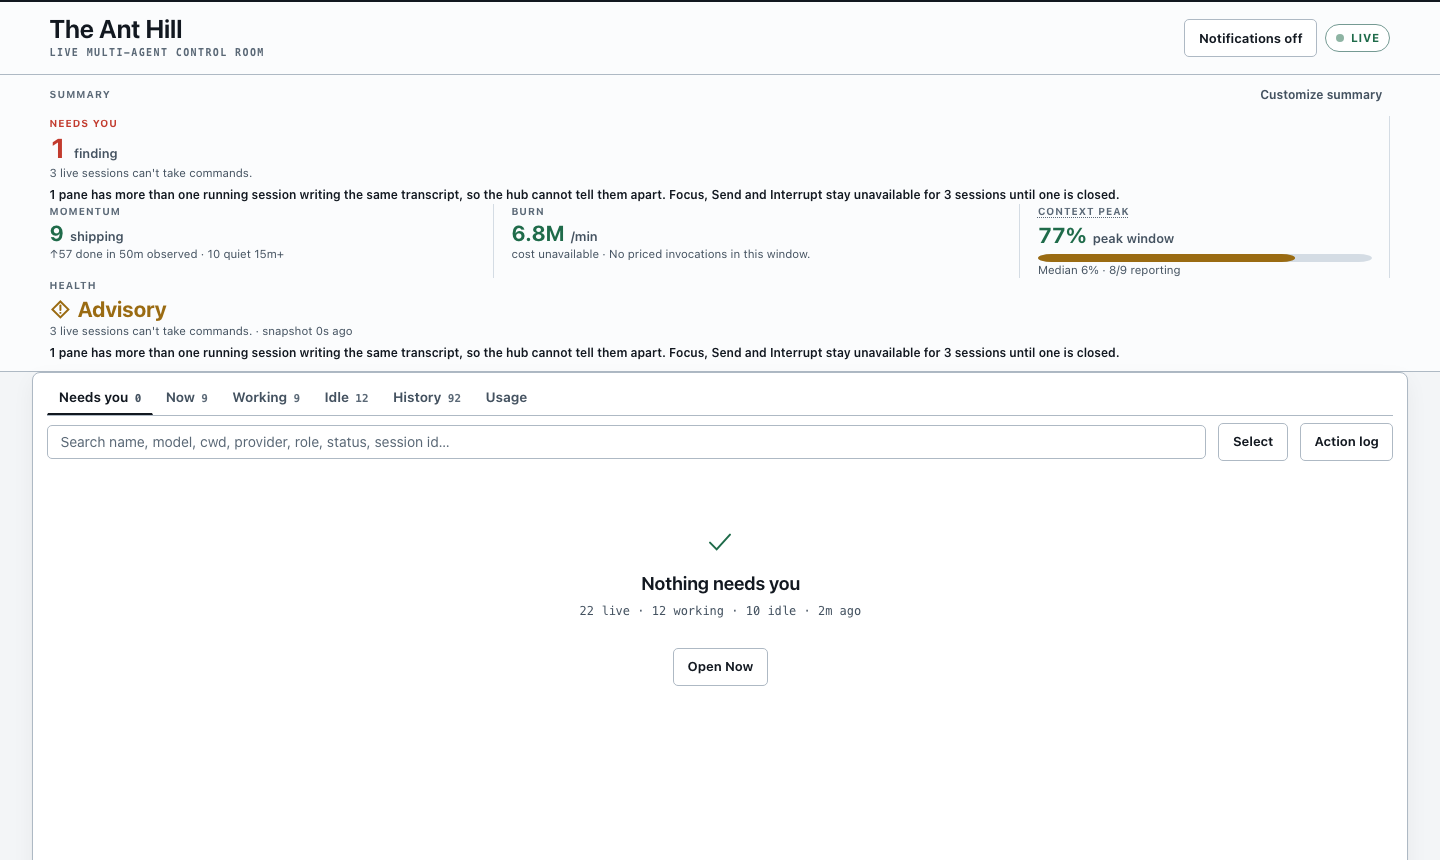
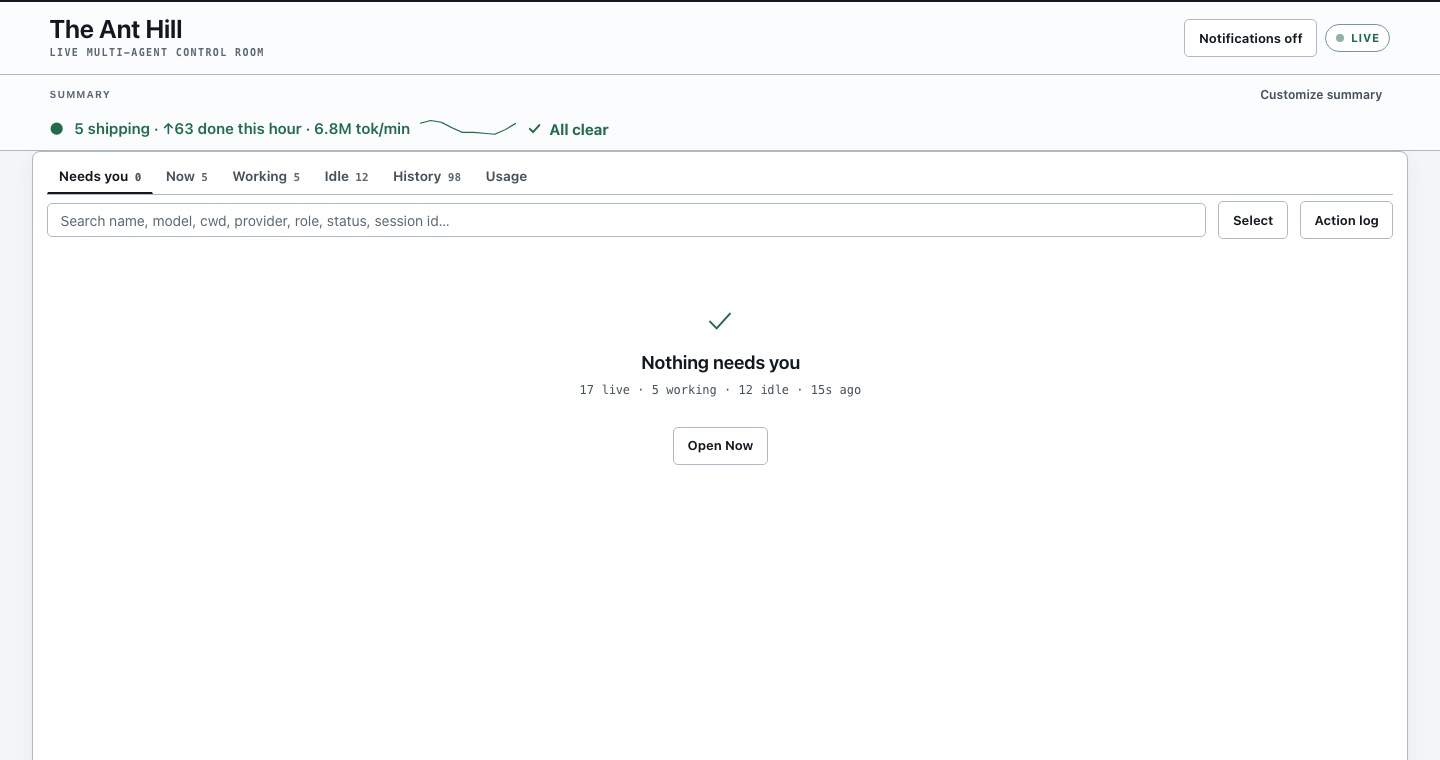
docs(guide): capture the calm band the board would not hold still for
The previous commit shipped the hero and summary shots showing a board with a
finding on it, because a shared checkout kept landing two live sessions on one
cmux pane and the board never stayed quiet. It went clean 250s later, so both
shots are retaken against the state the guide is actually about:

  ● 5 shipping · ↑63 done this hour · 6.8M tok/min   ✓ All clear

and the hero now shows the whole thing — one summary line, Needs you selected
and reading 0, and "Nothing needs you · 17 live · 5 working · 12 idle" where a
lesser board would render an empty list.

Section 1 leads with the collapsed line again now that the picture shows it.

tsc clean, 841 tests pass.

diff --git a/ANT-GUIDE.md b/ANT-GUIDE.md
@@ -24,15 +24,14 @@ Four steps. Do these in order and you have used the tool correctly.
 
 ![The summary band](docs/guide-shots/shot-1-summary.png)
 
-Above is the band with something on it: `Needs you` reads 1, and it says both
-what is wrong and what to do about it. **Only `Needs you` is a to-do list.** The
-rest are context, not tasks: how much is shipping, what it is costing, how full
-the fullest context window is, and whether the system itself is healthy.
+**When nothing needs you the band is one line**, as above: what is shipping, what
+has finished this hour, what it is burning, and `All clear`. No cards, no numbers
+to read past. That line is the answer, and you can close the tab.
 
-**When nothing needs you, that whole band collapses to a single line** — what is
-shipping, what has finished this hour, what it is burning, and `All clear`. No
-cards, no numbers to read past. That line is the answer, and you can close the
-tab.
+When something does need you it expands into cards, and **only `Needs you` is a
+to-do list** — it names both what is wrong and what to do about it. The rest are
+context, not tasks: how much is shipping, what it is costing, how full the
+fullest context window is, and whether the system itself is healthy.
 
 ### 2. The board opens on `Needs you`
 
